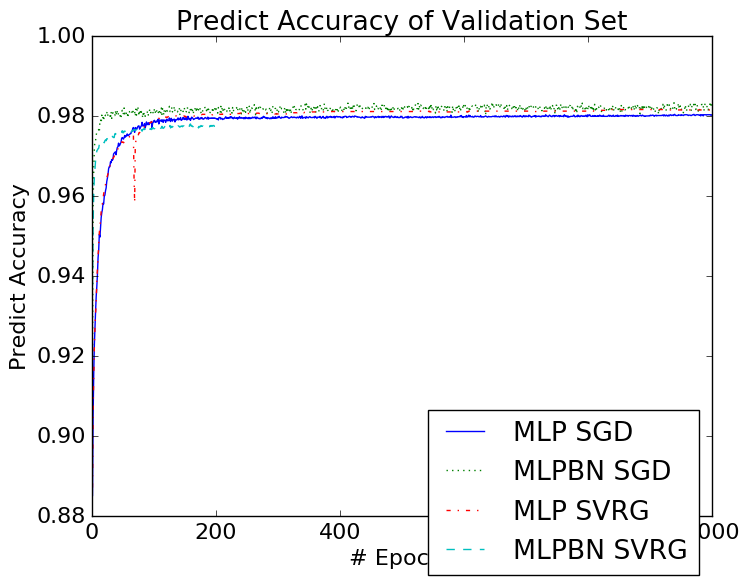
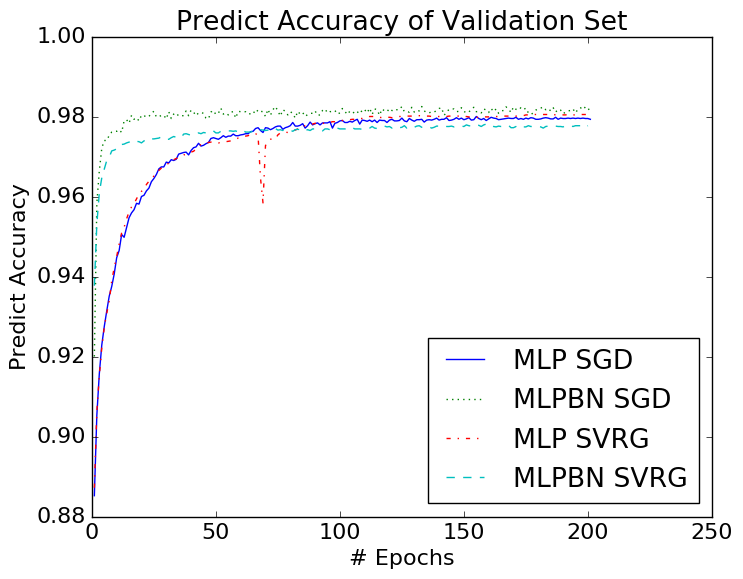
no data survive, should print the data as processing next time

Changed region(s): [[0.0, 0.0, 0.9906, 0.9948], [0.1857, 0.3109, 0.2167, 0.342]]

diff --git a/batch_normalization/draw.py b/batch_normalization/draw.py
@@ -14,7 +14,7 @@ PATH_DATA  = "data_large/"
 
 PATH_FIGURE = "figure/"
 
-MAXLENGTH = -1
+MAXLENGTH = 200
 
 LOAD_SGD = True
 LOAD_SVRG = True
@@ -75,6 +75,45 @@ def main(num_epochs=NUM_EPOCHS):
 
 	# print mlp_sgd_acc_train
 
+
+	if MAXLENGTH>0:
+		if DRAW_MLP_SGD: 	count_mlp_sgd = count_mlp_sgd[0:MAXLENGTH+1]
+		if DRAW_MLPBN_SGD: 	count_mlpbn_sgd = count_mlpbn_sgd[0:MAXLENGTH+1]
+		if DRAW_MLP_SVRG: 	count_mlp_svrg = count_mlp_svrg[0:MAXLENGTH+1]
+		if DRAW_MLPBN_SVRG: count_mlpbn_svrg = count_mlpbn_svrg[0:MAXLENGTH+1]		
+
+		if DRAW_MLP_SGD: 	mlp_sgd_acc_test = mlp_sgd_acc_test[0:MAXLENGTH+1]
+		if DRAW_MLPBN_SGD: 	mlpbn_sgd_acc_test = mlpbn_sgd_acc_test[0:MAXLENGTH+1]
+		if DRAW_MLP_SVRG: 	mlp_svrg_acc_test = mlp_svrg_acc_test[0:MAXLENGTH+1]
+		if DRAW_MLPBN_SVRG: mlpbn_svrg_acc_test = mlpbn_svrg_acc_test[0:MAXLENGTH+1]		
+
+		if DRAW_MLP_SGD:	mlp_sgd_loss_test = mlp_sgd_loss_test[0:MAXLENGTH+1]
+		if DRAW_MLPBN_SGD: 	mlpbn_sgd_loss_test = mlpbn_sgd_loss_test[0:MAXLENGTH+1]
+		if DRAW_MLP_SVRG: 	mlp_svrg_loss_test = mlp_svrg_loss_test[0:MAXLENGTH+1]
+		if DRAW_MLPBN_SVRG: mlpbn_svrg_loss_test = mlpbn_svrg_loss_test[0:MAXLENGTH+1]
+
+		if DRAW_MLP_SGD: 	mlp_sgd_acc_val = mlp_sgd_acc_val[0:MAXLENGTH+1]
+		if DRAW_MLPBN_SGD: 	mlpbn_sgd_acc_val = mlpbn_sgd_acc_val[0:MAXLENGTH+1]
+		if DRAW_MLP_SVRG: 	mlp_svrg_acc_val = mlp_svrg_acc_val[0:MAXLENGTH+1]
+		if DRAW_MLPBN_SVRG: mlpbn_svrg_acc_val = mlpbn_svrg_acc_val[0:MAXLENGTH+1]		
+		
+		if DRAW_MLP_SGD:	mlp_sgd_loss_val = mlp_sgd_loss_val[0:MAXLENGTH+1]
+		if DRAW_MLPBN_SGD: 	mlpbn_sgd_loss_val = mlpbn_sgd_loss_val[0:MAXLENGTH+1]
+		if DRAW_MLP_SVRG: 	mlp_svrg_loss_val = mlp_svrg_loss_val[0:MAXLENGTH+1]
+		if DRAW_MLPBN_SVRG: mlpbn_svrg_loss_val = mlpbn_svrg_loss_val[0:MAXLENGTH+1]
+
+		if DRAW_MLP_SGD: 	mlp_sgd_acc_train = mlp_sgd_acc_train[0:MAXLENGTH+1]
+		if DRAW_MLPBN_SGD: 	mlpbn_sgd_acc_train = mlpbn_sgd_acc_train[0:MAXLENGTH+1]
+		if DRAW_MLP_SVRG: 	mlp_svrg_acc_train = mlp_svrg_acc_train[0:MAXLENGTH+1]
+		if DRAW_MLPBN_SVRG: mlpbn_svrg_acc_train = mlpbn_svrg_acc_train[0:MAXLENGTH+1]		
+		
+		if DRAW_MLP_SGD:	mlp_sgd_loss_train = mlp_sgd_loss_train[0:MAXLENGTH+1]
+		if DRAW_MLPBN_SGD: 	mlpbn_sgd_loss_train = mlpbn_sgd_loss_train[0:MAXLENGTH+1]
+		if DRAW_MLP_SVRG: 	mlp_svrg_loss_train = mlp_svrg_loss_train[0:MAXLENGTH+1]
+		if DRAW_MLPBN_SVRG: mlpbn_svrg_loss_train = mlpbn_svrg_loss_train[0:MAXLENGTH+1]
+
+
+
 	#PLOT 
 	matplotlib.rcParams.update({'font.size': 16})
 	plt.figure(1)
@@ -97,7 +136,7 @@ def main(num_epochs=NUM_EPOCHS):
 	if DRAW_MLPBN_SVRG:	plt.plot(count_mlpbn_svrg, mlpbn_svrg_acc_val, SPEC_L4 ,label="MLPBN SVRG", linewidth='1')
 	plt.xlabel('# Epochs')
 	plt.ylabel('Predict Accuracy')
-	plt.legend(bbox_to_anchor=(1,0.25))
+	plt.legend(bbox_to_anchor=(1,0.4))
 	# plt.show()
 	pylab.savefig(PATH_FIGURE+'CrossModel_Validation Set_Predict Accuracy'+'.png',bbox_inches='tight')
 
@@ -121,20 +160,9 @@ def main(num_epochs=NUM_EPOCHS):
 	if DRAW_MLPBN_SVRG:	plt.plot(count_mlpbn_svrg, mlpbn_svrg_acc_train, SPEC_L4 ,label="MLPBN SVRG", linewidth='1')
 	plt.xlabel('# Epochs')
 	plt.ylabel('Predict Accuracy')
-	plt.legend(bbox_to_anchor=(1,0.25))
+	plt.legend(bbox_to_anchor=(1,0.4))
 	# plt.show()
 	pylab.savefig(PATH_FIGURE+'CrossModel_Training Set_Predict Accuracy'+'.png',bbox_inches='tight')
-
-	if MAXLENGTH>0:
-		if DRAW_MLP_SGD: 	count_mlp_sgd = count_mlp_sgd[0:MAXLENGTH+1]
-		if DRAW_MLPBN_SGD: 	count_mlpbn_sgd = count_mlpbn_sgd[0:MAXLENGTH+1]
-		if DRAW_MLP_SVRG: 	count_mlp_svrg = count_mlp_svrg[0:MAXLENGTH+1]
-		if DRAW_MLP_SGD: 	mlp_sgd_acc_test = mlp_sgd_acc_test[0:MAXLENGTH+1]
-		if DRAW_MLPBN_SGD: 	mlpbn_sgd_acc_test = mlpbn_sgd_acc_test[0:MAXLENGTH+1]
-		if DRAW_MLP_SVRG: 	mlp_svrg_acc_test = mlp_svrg_acc_test[0:MAXLENGTH+1]
-		if DRAW_MLP_SGD:	mlp_sgd_loss_test = mlp_sgd_loss_test[0:MAXLENGTH+1]
-		if DRAW_MLPBN_SGD: 	mlpbn_sgd_loss_test = mlpbn_sgd_loss_test[0:MAXLENGTH+1]
-		if DRAW_MLP_SVRG: 	mlp_svrg_loss_test = mlp_svrg_loss_test[0:MAXLENGTH+1]
 
 	plt.figure(5)
 	plt.title('Predict Accuracy of Test Set')
@@ -144,7 +172,7 @@ def main(num_epochs=NUM_EPOCHS):
 	if DRAW_MLPBN_SVRG: 	plt.plot(count_mlpbn_svrg, mlpbn_svrg_acc_test, SPEC_L4 ,label="MLPBN SVRG", linewidth='1')
 	plt.xlabel('# Epochs')
 	plt.ylabel('Predict Accuracy')
-	plt.legend(bbox_to_anchor=(1,0.25))
+	plt.legend(bbox_to_anchor=(1,0.4))
 	# plt.show()
 	pylab.savefig(PATH_FIGURE+'CrossModel_Test Set_Predict Accuracy'+'.png',bbox_inches='tight')
 
